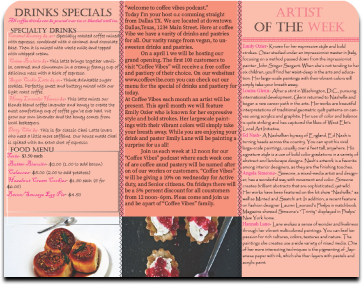
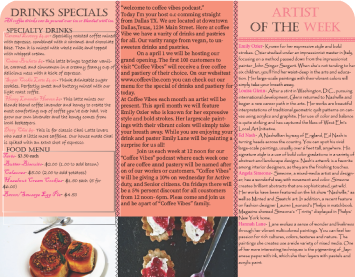
almost complete

diff --git a/css/style.css b/css/style.css
@@ -1,5 +1,5 @@
-/* Reset defaults and set dark background */
-* {
+/* defaults and set dark background */
+ *{
     margin: 0px;
     padding: 0px;
     box-sizing: border-box;
@@ -15,16 +15,13 @@ body {
 
 }
 
-/* page theme setup */
-
-
+/* page theme setup important */
 
 .pagecolormain{
 background-color: #1E1E1E;
 
 height: auto;
 min-height: 1024px;
-max-width: 952px;
 width: 952px;
 padding: 70px 0px 70px;
 padding-left: 20px;
@@ -56,7 +53,7 @@ padding-left: 20px;
 }
 
 
-/* My Text fonts from adobe */
+/* My Text fonts from adobe and the diffrent use cases*/
 .gothic {font-family: league-gothic, sans-serif;
 font-weight: 400;
 font-style: normal;
@@ -70,17 +67,14 @@ font-style: normal;
 font-size: 56px;}
 
 
-
-
-
 .smallgothic {font-family: league-gothic, sans-serif;
 font-weight: 400;
 font-style: normal;
 font-size: 24px;
-color: rgb(253, 255, 255);}
+color: rgb(0, 0, 0);}
 
 .smallwriting{font-family: verveine, sans-serif;
-color: white;
+color: rgb(0, 0, 0);
 font-weight: 400;
 font-style: normal;
 font-size: 24px;}
@@ -254,25 +248,75 @@ nav a{
     font-style: italic;
 }
 
-/* portfolio sections */
 
 
-
-
-
-
-
-
-
-.carddisplaycontainer {
-    
-    flex-direction: column; /* Stacks the cards vertically */
-    align-items: center;    /* Centers the cards horizontally */
-    gap: 80px;              /* Sets explicit spacing between the top and bottom card */
-    width: 100%;
-    
+/* portfolio sections and designs */
+.card {
+  width: 355px;
+  height: 554px;
+  background-color: #BBD9BA;
+  border: 3px solid #365956;
+  border-radius: 20px;
+  box-shadow: 0 6px 8px #000000;
+  overflow: hidden; /* Keeps image corners rounded */
+  
 }
 
+/* Image styling */
+.card-image {
+  width: 100%;
+  height: 277px;
+  object-fit: cover;
+}
+
+/* Text area padding */
+.card-content {
+  padding: 30px;
+}
+
+.card-title {
+text-align: center;
+  margin: 0 0 8px 0;
+  font-family: league-gothic, sans-serif; 
+  font-size: 24px;
+  color:#000000
+  
+}
+
+.card-text {
+font-family: verveine, sans-serif;;
+  margin: 0 0 16px 0;
+  font-size: 24px;
+  color: #000000;
+
+}
+
+/* Button styling */
+.card-btn {
+  width: 100%;
+  padding: 10px;
+  background-color: #1E1E1E;
+  color: #9CD9B6;
+  border: none;
+  border-radius: 4px;
+  cursor: pointer;
+  font-weight: bold;
+}
+
+.card-btn:hover {
+  background-color: #365956;
+}
+
+
+
+.card-container {
+padding-top: 20px;
+padding-bottom: 20px;
+  display: flex;
+  flex-wrap: wrap;
+  gap: 60px; /* Spacing between cards */
+  justify-content: center;
+}
 
 
 
@@ -283,7 +327,8 @@ nav a{
 /* contact sections */
 
 .tabledesign{
-    padding-left: 20px;
+    padding-left: 40px;
+    
 }
 
 table th, td{
@@ -291,6 +336,10 @@ table th, td{
     padding: 6px;
     background-color: #1E1E1E;
     
+    
+}
+table tr{
+    font-family: verveine, sans-serif;font-size: 20px;
 }
 
 table caption{
@@ -319,7 +368,7 @@ font-size: 24px;
 
 .shadow{
     box-shadow: 0px 6px 8px rgb(0, 0, 0);
-    border: 1px solid grey;
+    border: 2px solid #365956;
     border-radius: 20px;
   background-color: #121212;
 }
@@ -329,11 +378,10 @@ font-size: 24px;
     
 }
 
-.sendbuttion{
-    width: 51.63px;
-    height: 48.63;
-    
-}
+
+
+
+
 
 
 input {
@@ -344,7 +392,7 @@ input {
     border: solid #9CD9B6;
     background-color: #1E1E1E;
     border-radius: 10px;
-    color: #365956
+    color: #9CD9B6
     
 }
 
@@ -367,7 +415,7 @@ select {
     border: solid #9CD9B6;
     background-color: #1E1E1E;
     border-radius: 10px;
-    color: #365956;
+    color: #9CD9B6;
 }
 
 

diff --git a/portfolio.html b/portfolio.html
@@ -41,39 +41,86 @@
             </nav>
         </div>
     </div>
-</div>
+</div> 
         </header>
 
+
+
+
+
+
+
         <!-- design cards -->
-<div class="pagethemetwo">
-<main >
-<div class="carddisplaycontainer">
-    <img src="images/coffee-vibes-inside.png" alt="">
-<img src="images/coffee-vibes-inside.png" alt="">
-<img src="images/coffee-vibes-inside.png" alt="">
-<img src="images/coffee-vibes-inside.png" alt="">
-<img src="images/coffee-vibes-inside.png" alt="">
-<img src="images/coffee-vibes-inside.png" alt="">
+
+<main class="pagethemetwo"> 
 
 
 
+<div class="card-container">
+<div class="card">
+  <img src="images/coffee-vibes-outside-view.png" alt="Card Header Image" class="card-image">
+  <div class="card-content">
+    <h3 class="card-title">Coffee Vibes- Out side view</h3>
+    <p class="card-text">description:<br> Coffee Vibes coffee shop menu. restaurant for hire brochure</p>
+    <button onclick="window.open('https://sites.google.com/view/olivia-charles/home', '_blank')" class="card-btn">Read More</button>
+  </div>
 
-
-
-    
 </div>
+
+
+<div class="card">
+  <img src="images/coffee-vibes-inside.png" alt="Card Header Image" class="card-image">
+  <div class="card-content">
+    <h3 class="card-title">Coffee Vibes- Inside menu view</h3>
+    <p class="card-text">description:<br> Coffee Vibes coffee shop menu. 
+restaurant for hire brochure</p>
+    <button onclick="window.open('https://sites.google.com/view/olivia-charles/home', '_blank')" class="card-btn">Read More</button>
+
+  </div>
+</div>
+
+
+
+<div class="card">
+  <img src="images/mobile-ad-free-coffee-limited.png" alt="Card Header Image" class="card-image">
+  <div class="card-content">
+    <h3 class="card-title">Coffee Vibes- Free coffee ad limited</h3>
+    <p class="card-text">description:<br> Vacay Vibes, coffee coupon limited to the 1st 100 people.</p>
+    <button onclick="window.open('https://sites.google.com/view/olivia-charles/home', '_blank')" class="card-btn">Read More</button>
+
+  </div>
+</div>
+
+
+
+
+<div class="card">
+  <img src="images/mobile-ad-bogo-coffee-free.png" alt="Card Header Image" class="card-image">
+  <div class="card-content">
+    <h3 class="card-title">Coffee Vibes- Bogo coffee free ad</h3>
+    <p class="card-text">description: <br> Bogo coffee free! major sale! Get it while you still can.</p>
+    <button onclick="window.open('https://sites.google.com/view/olivia-charles/home', '_blank')" class="card-btn">Read More</button>
+
+  </div>
+</div>
+
+
+
 </div>
 </main>
 
+
+
         <!-- Footer Bar -->
         <div class="pagethemethree">
+            <div style="padding-top: 10px;"></div>
         <footer class="footer-bar">
             <div class="footer-credits">
                 OLIVIA CHARLES | PORTFOLIO WEBSITE | 2026
             </div>
             <div class="footer-icons">
-                <a href="#">💬</a>
-                <a href="#">▶</a>
+                <a href="https://youtu.be/y2wKa2chE9k"><img src="images/youtube.png" alt="youtube company"></a>
+                <a href="https://wa.link/261xs0"><img src="images/whattsap.png" alt="whatsApp number link"></a>
                 <img src="images/paw-logo-footer.png" alt="paw logo footer">
             </div>
         </footer>

diff --git a/contact.html b/contact.html
@@ -76,10 +76,10 @@
 
 <div class="flexitem">
     <div class="contactinfo shadow">
-        <h4>contact info</h4>
-        <p><strong>Email</strong> <br> info@student.edu</p>
-        <p><strong>Phone</strong> <br> (555) 555-5555</p>
-        <p><strong>Locaton</strong> <br> 123 Learning Lane <br> Student City, TX 12345</p>
+        <h4 style="text-align: center;" class="smallgothic">Contact Info</h4>
+        <p class="smallwriting"><strong class="smallgothic">Email</strong> <br> info@student.edu</p>
+        <p class="smallwriting"><strong class="smallgothic">Phone</strong> <br> (555) 555-5555</p>
+        <p class="smallwriting"><strong class="smallgothic">Locaton</strong> <br> San Antonio TX</p>
     </div>
 
 
@@ -147,13 +147,14 @@
 
         <!-- Footer Bar -->
         <div class="pagethemethree">
+            <div style="padding-top: 10px;"></div>
         <footer class="footer-bar">
             <div class="footer-credits">
                 OLIVIA CHARLES | PORTFOLIO WEBSITE | 2026
             </div>
             <div class="footer-icons">
-                <a href="#">💬</a>
-                <a href="#">▶</a>
+                <a href="https://youtu.be/y2wKa2chE9k"><img src="images/youtube.png" alt="youtube company"></a>
+                <a href="https://wa.link/261xs0"><img src="images/whattsap.png" alt="whatsApp number link"></a>
                 <img src="images/paw-logo-footer.png" alt="paw logo footer">
             </div>
         </footer>

diff --git a/index.html b/index.html
@@ -64,13 +64,14 @@
 
         <!-- Footer Bar -->
         <div class="pagethemethree">
+            <div style="padding-top: 10px;"></div>
         <footer class="footer-bar">
             <div class="footer-credits">
                 OLIVIA CHARLES | PORTFOLIO WEBSITE | 2026
             </div>
             <div class="footer-icons">
-                <a href="#">💬</a>
-                <a href="#">▶</a>
+                <a href="https://youtu.be/y2wKa2chE9k"><img src="images/youtube.png" alt="youtube company"></a>
+                <a href="https://wa.link/261xs0"><img src="images/whattsap.png" alt="whatsApp number link"></a>
                 <img src="images/paw-logo-footer.png" alt="paw-logo-footer">
             </div>
         </footer>
